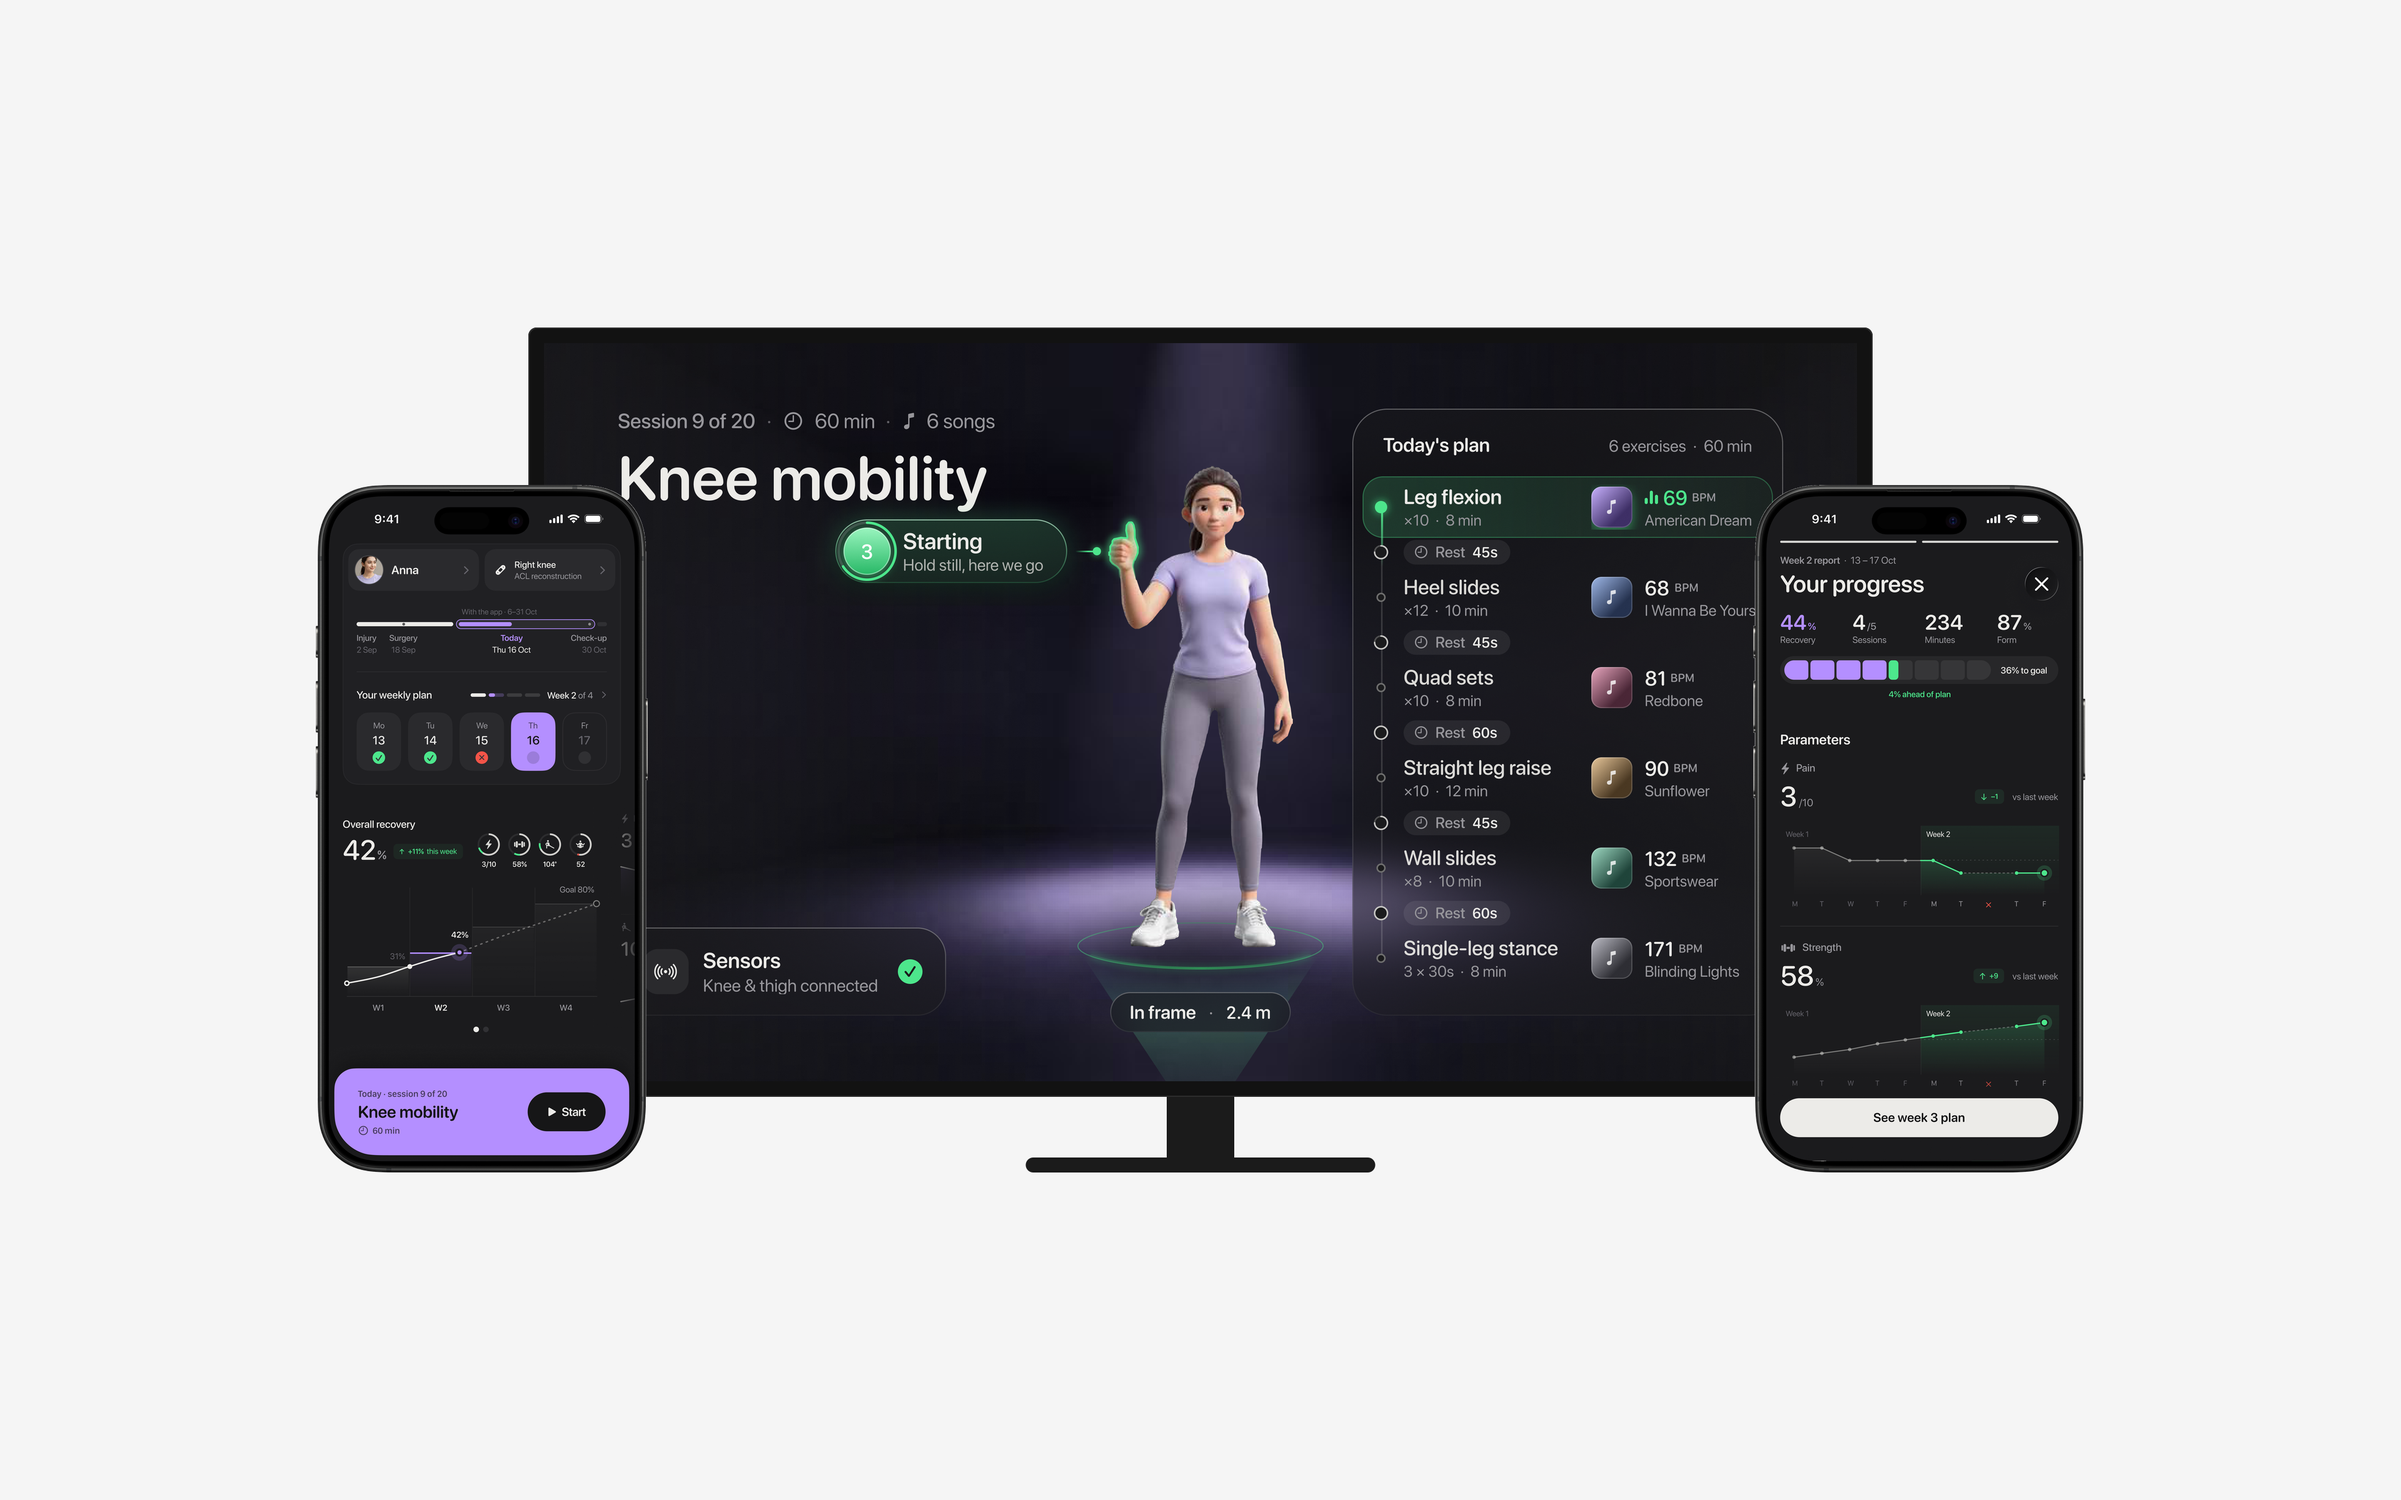
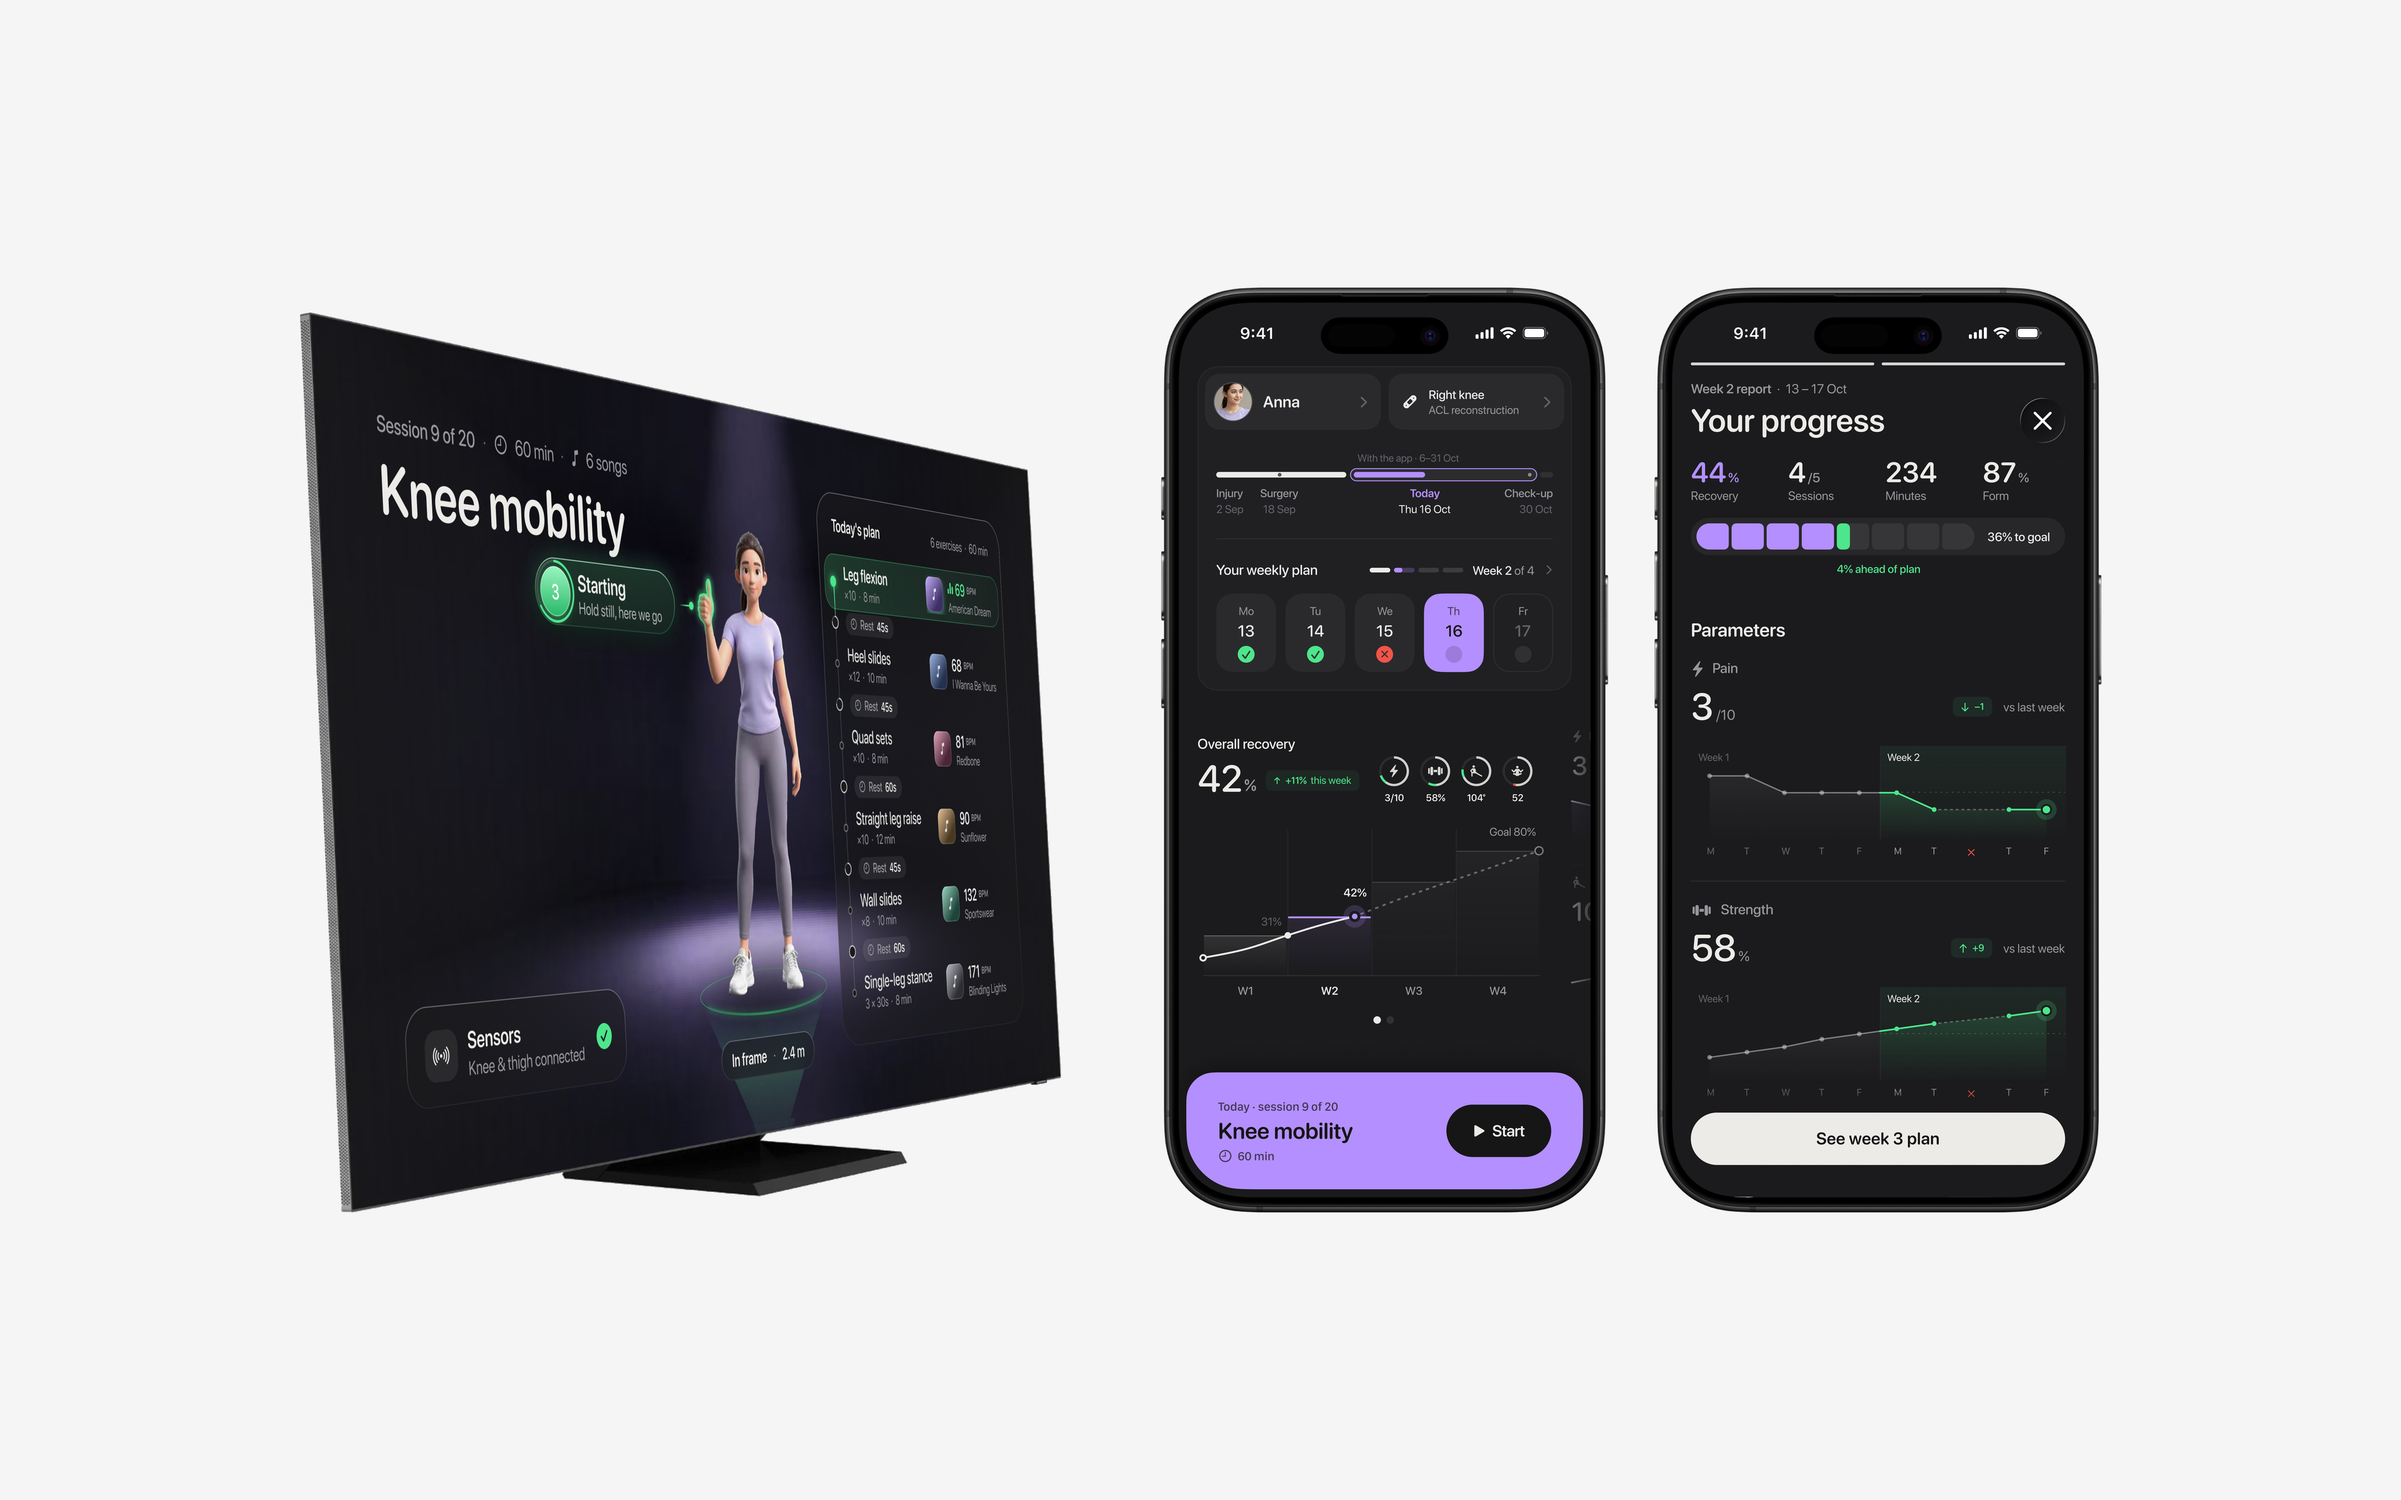
Rehabeat cover: perspective TV on the left, two phones on the right
Built on the owner's TV mockup: the TV body is upscaled and cut out of its
flat ground (its faint contact shadow goes with it), and the 4K TV screen
from Figma is re-projected onto the glass so the interface stays sharp.
The phones stand on the same ground line, with margins that survive the
4:3 card crop.

Changed region(s): [[0.125, 0.1875, 0.875, 0.8125], [0.7812, 0.5312, 0.8125, 0.5938], [0.2188, 0.5625, 0.25, 0.5938]]

diff --git a/HANDOFF.md b/HANDOFF.md
@@ -732,6 +732,12 @@ When a CLOUD session hits something that needs the local environment, it must:
 
 ## Appendix A — Session log (newest first; keep ~15 entries, fold older facts into §1–§9 above)
 
+- **2026-10-10 · LOCAL (2)** · Rehabeat cover REDONE with the owner's TV mockup (a 2000×1500 webp of a slim
+  3/4-perspective TV on a flat #e8e8e8 ground): **TV on the left, the two phones large on the right**, one ground line,
+  group centred, side margins ~480px (4:3 card safe). The mockup body was upscaled ×2 and cut out (neutral greys ≥172
+  removed by flood fill, which also drops its faint contact shadow: covers stay flat); the 4K TV screen from Figma was
+  re-projected onto the glass with a homography (glass corners measured on the mockup: 526,218 · 1308,392 ·
+  1344,1052 · 571,1197), so the UI is sharp. The drawn minimal TV from the entry below is superseded. Pushed `main`.
 - **2026-10-10 · LOCAL** · Rehabeat cover (`src/assets/projects/rehabeat/cover.png`, 3840×2400, tone #f5f5f5). Source:
   Figma file `xmb1334lJ54M35DwB9PFnl` (page "Redesign"), nodes 4106:1552 "Mockup · Home · iPhone 16 Pro (official
   bezel)", 4115:2142 "Mockup · Week 2 data …", 4349:1524 "TV / Get ready · thumbs up recognized (TV-10)" (exported
